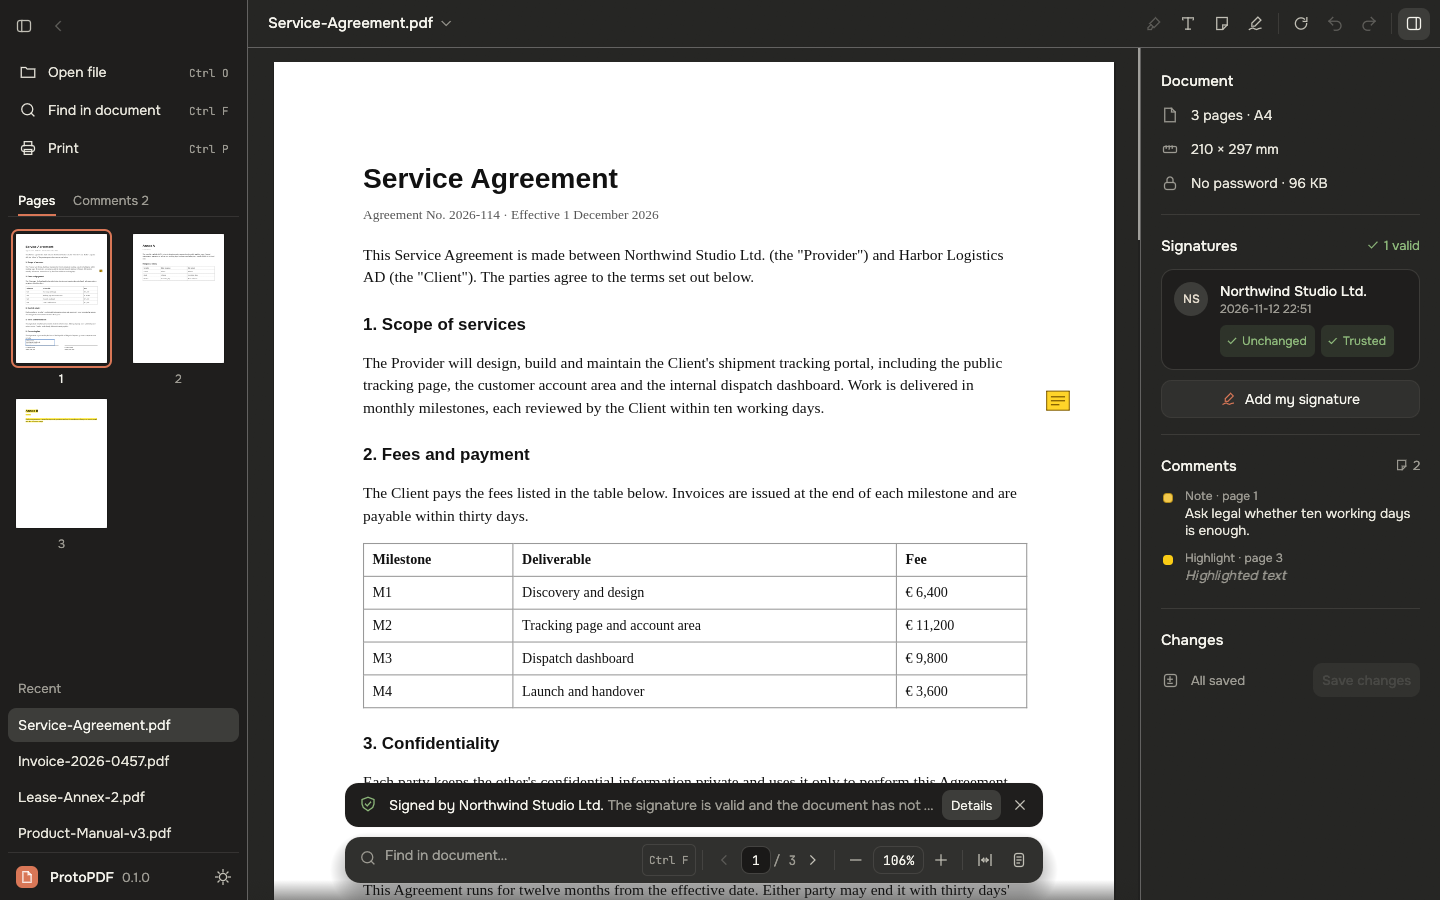
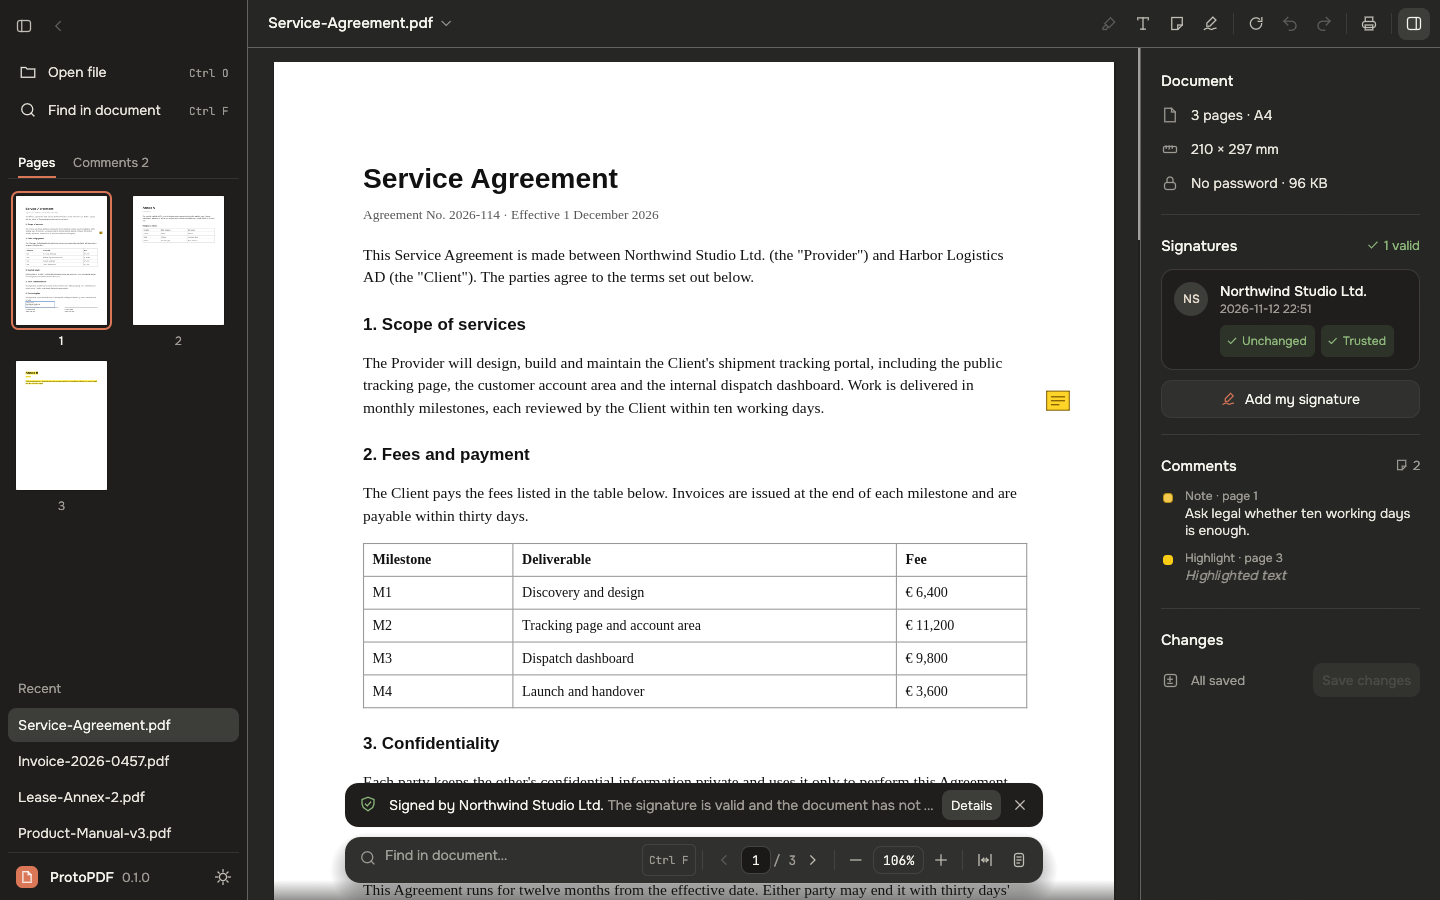
Open files with the sidebar shown and the document panel closed; Print in the top bar
The side panels are no longer remembered between runs: a closed sidebar
stuck for every later file. Each file now opens with the sidebar shown and
the document panel hidden (--panel opens it, for screenshots). Print moves
from the sidebar to the icon group at the top right. README text and
screenshots follow.

Changed region(s): [[0.0, 0.1556, 0.1562, 0.4667], [0.0, 0.5289, 0.0938, 0.5911], [0.8125, 0.0, 0.875, 0.0311]]

diff --git a/src/app.rs b/src/app.rs
@@ -404,15 +404,16 @@ impl App {
             back: Vec::new(),
             jump_offset: 0.0,
             hover: None,
-            show_panel: settings.panel,
+            // Every file opens with the sidebar shown and the document panel hidden.
+            show_panel: false,
             settings,
             pal,
             sig_hidden: false,
         };
-        // Switches used when taking automated screenshots.
-        app.show_thumbs = app.settings.sidebar || args.iter().any(|a| a == "--thumbs");
-        if args.iter().any(|a| a == "--no-panel") {
-            app.show_panel = false;
+        app.show_thumbs = true;
+        // --panel: start with the document panel open (for screenshots).
+        if args.iter().any(|a| a == "--panel") {
+            app.show_panel = true;
         }
         // The find box is always on screen.
         app.search.open = true;
@@ -1171,13 +1172,9 @@ impl App {
             Act::ToggleThumbs => {
                 self.show_thumbs = !self.show_thumbs;
                 self.thumb_follow = usize::MAX;
-                self.settings.sidebar = self.show_thumbs;
-                self.settings.save();
             }
             Act::TogglePanel => {
                 self.show_panel = !self.show_panel;
-                self.settings.panel = self.show_panel;
-                self.settings.save();
             }
             Act::ToggleTheme => {
                 self.settings.light = !self.settings.light;
@@ -1664,7 +1661,8 @@ impl App {
         let can_undo = self.doc.as_ref().is_some_and(|d| !d.undo.is_empty());
         let can_redo = self.doc.as_ref().is_some_and(|d| !d.redo.is_empty());
         let edit_ok = has && !self.busy();
-        let busy = self.busy() || self.print_rx.is_some();
+        let printing = self.print_rx.is_some();
+        let busy = self.busy() || printing;
         let mut msg = String::new();
         if self.is_dirty() {
             msg.push_str("Edited");
@@ -1712,6 +1710,12 @@ impl App {
                         if theme::icon_button(ui, &p, Icon::PanelRight, 32.0, true, panel_open, tip).clicked() {
                             acts.push(Act::TogglePanel);
                         }
+                        theme::vdivider(ui, &p);
+                    }
+                    if theme::icon_button(ui, &p, Icon::Printer, 32.0, has && !printing, false, "Print (Ctrl+P)").clicked() {
+                        acts.push(Act::Print);
+                    }
+                    if has {
                         theme::vdivider(ui, &p);
                         if theme::icon_button(ui, &p, Icon::Redo, 32.0, can_redo && edit_ok, false, "Redo (Ctrl+Y)").clicked() {
                             acts.push(Act::Redo);
@@ -1779,9 +1783,6 @@ impl App {
             }
             if theme::nav_row(ui, &p, Icon::Search, "Find in document", "Ctrl F", has).clicked() {
                 acts.push(Act::Find);
-            }
-            if theme::nav_row(ui, &p, Icon::Printer, "Print", "Ctrl P", has).clicked() {
-                acts.push(Act::Print);
             }
 
             let footer_h = 46.0;

diff --git a/src/settings.rs b/src/settings.rs
@@ -1,5 +1,6 @@
-//! Preferences kept between runs: the theme, which side panels are open and
-//! the recently opened files. Stored as plain `key=value` lines in
+//! Preferences kept between runs: the theme and the recently opened files.
+//! (The side panels are not remembered: every file opens with the sidebar
+//! shown and the document panel hidden.) Stored as plain `key=value` lines in
 //! `%APPDATA%\ProtoPDF\settings.txt` on Windows and
 //! `~/.config/ProtoPDF/settings.txt` on Linux.
 
@@ -9,8 +10,6 @@ const MAX_RECENT: usize = 8;
 
 pub struct Settings {
     pub light: bool,
-    pub sidebar: bool,
-    pub panel: bool,
     pub recent: Vec<PathBuf>,
     /// False when the theme was forced from the command line: nothing is written then.
     pub persist: bool,
@@ -18,7 +17,7 @@ pub struct Settings {
 
 impl Default for Settings {
     fn default() -> Self {
-        Self { light: false, sidebar: true, panel: true, recent: Vec::new(), persist: true }
+        Self { light: false, recent: Vec::new(), persist: true }
     }
 }
 
@@ -39,11 +38,8 @@ impl Settings {
         let Some(text) = file().and_then(|f| std::fs::read_to_string(f).ok()) else { return s };
         for line in text.lines() {
             let Some((key, value)) = line.split_once('=') else { continue };
-            let on = value.trim() == "1";
             match key.trim() {
-                "light" => s.light = on,
-                "sidebar" => s.sidebar = on,
-                "panel" => s.panel = on,
+                "light" => s.light = value.trim() == "1",
                 "recent" if !value.is_empty() && s.recent.len() < MAX_RECENT => s.recent.push(PathBuf::from(value)),
                 _ => {}
             }
@@ -56,8 +52,7 @@ impl Settings {
             return;
         }
         let Some(path) = file() else { return };
-        let flag = |b: bool| if b { "1" } else { "0" };
-        let mut out = format!("light={}\nsidebar={}\npanel={}\n", flag(self.light), flag(self.sidebar), flag(self.panel));
+        let mut out = format!("light={}\n", if self.light { "1" } else { "0" });
         for r in &self.recent {
             if let Some(s) = r.to_str() {
                 out.push_str("recent=");

diff --git a/README.md b/README.md
@@ -18,11 +18,11 @@ Written entirely in Rust, it opens a 200 page manual in under a second and print
 ## What it does
 
 The window
-- Sidebar on the left: open, find and print, the page list (or contents, or comments) and recently opened files
-- Document panel on the right: page count and size, who signed the document and whether the signature holds, the comments, and unsaved changes with a Save button
+- Sidebar on the left, open whenever a file opens: open and find, the page list (or contents, or comments) and recently opened files
+- Document panel on the right, opened with the button at the top right: page count and size, who signed the document and whether the signature holds, the comments, and unsaved changes with a Save button
 - Find box at the bottom, with page and zoom controls next to it. The signature check sits just above it
-- Tools as icons in the top bar. Every other command is in the menu under the file name
-- Dark and light mode: the sun / moon button at the bottom of the sidebar, or View in the file menu. The mode, the open panels and the recent files are remembered
+- Tools and Print as icons in the top bar. Every other command is in the menu under the file name
+- Dark and light mode: the sun / moon button at the bottom of the sidebar, or View in the file menu. The mode and the recent files are remembered
 - Narrow windows hide the document panel first, then the sidebar
 
 Reading
